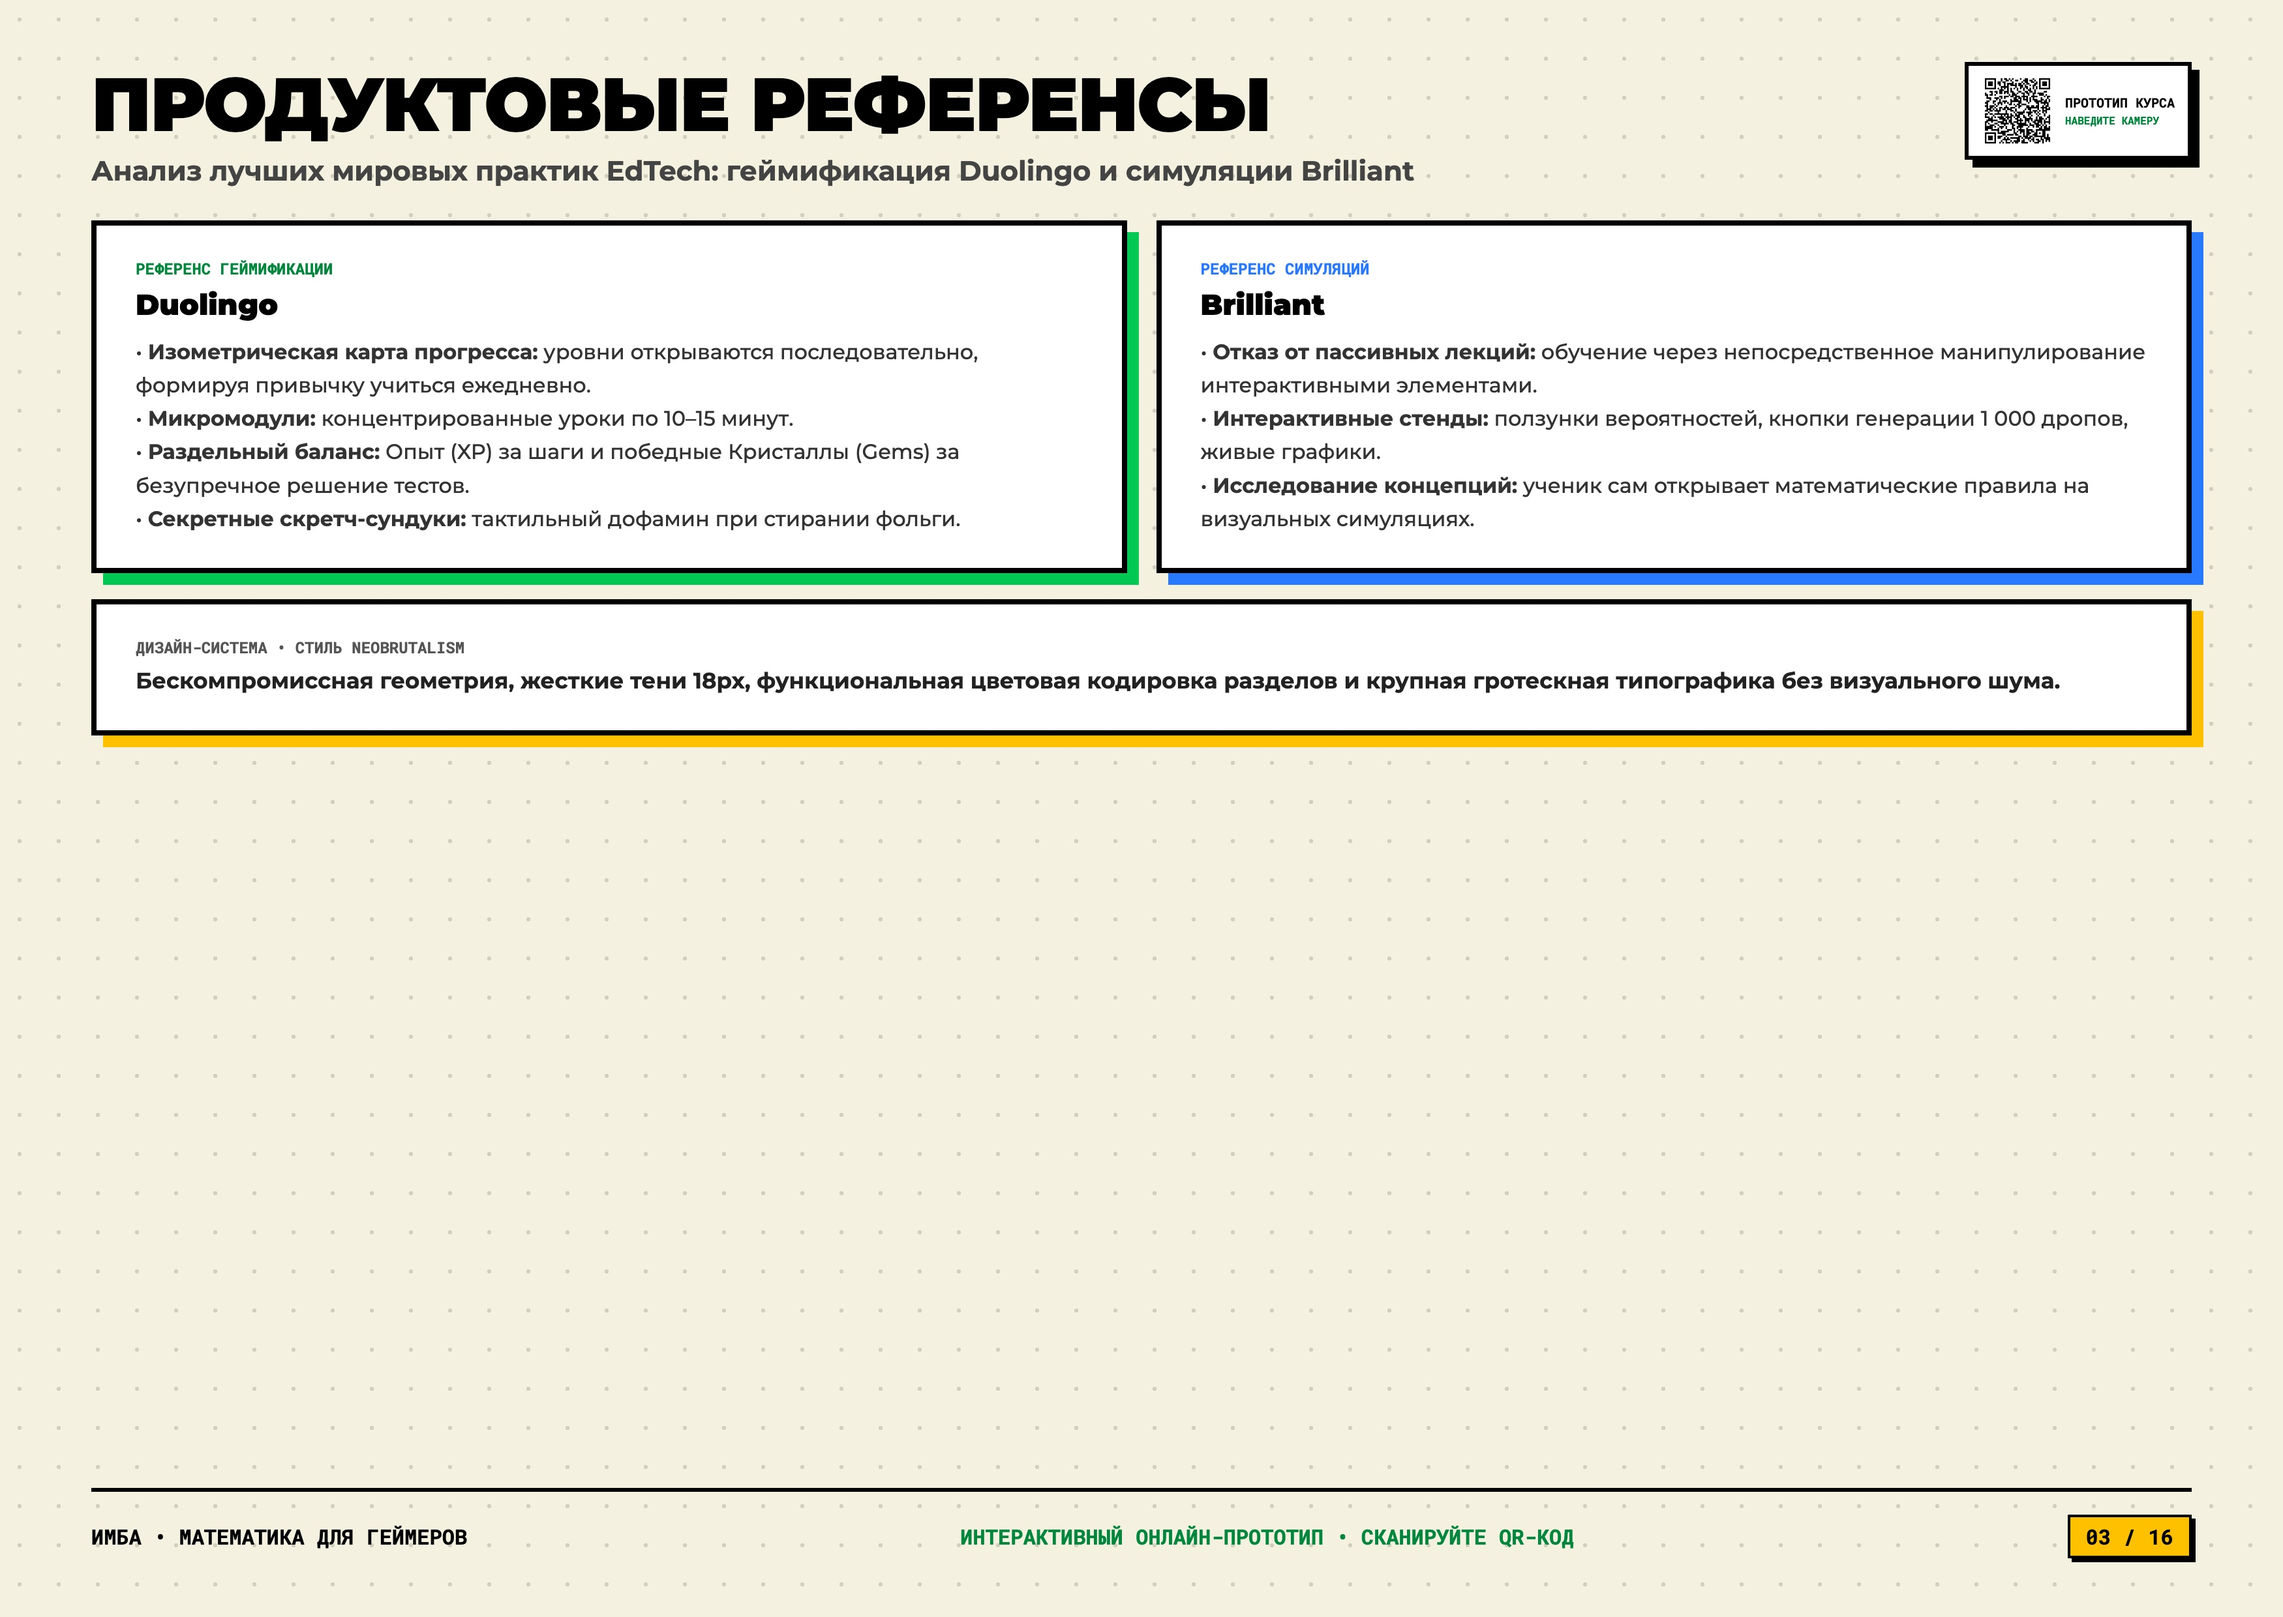
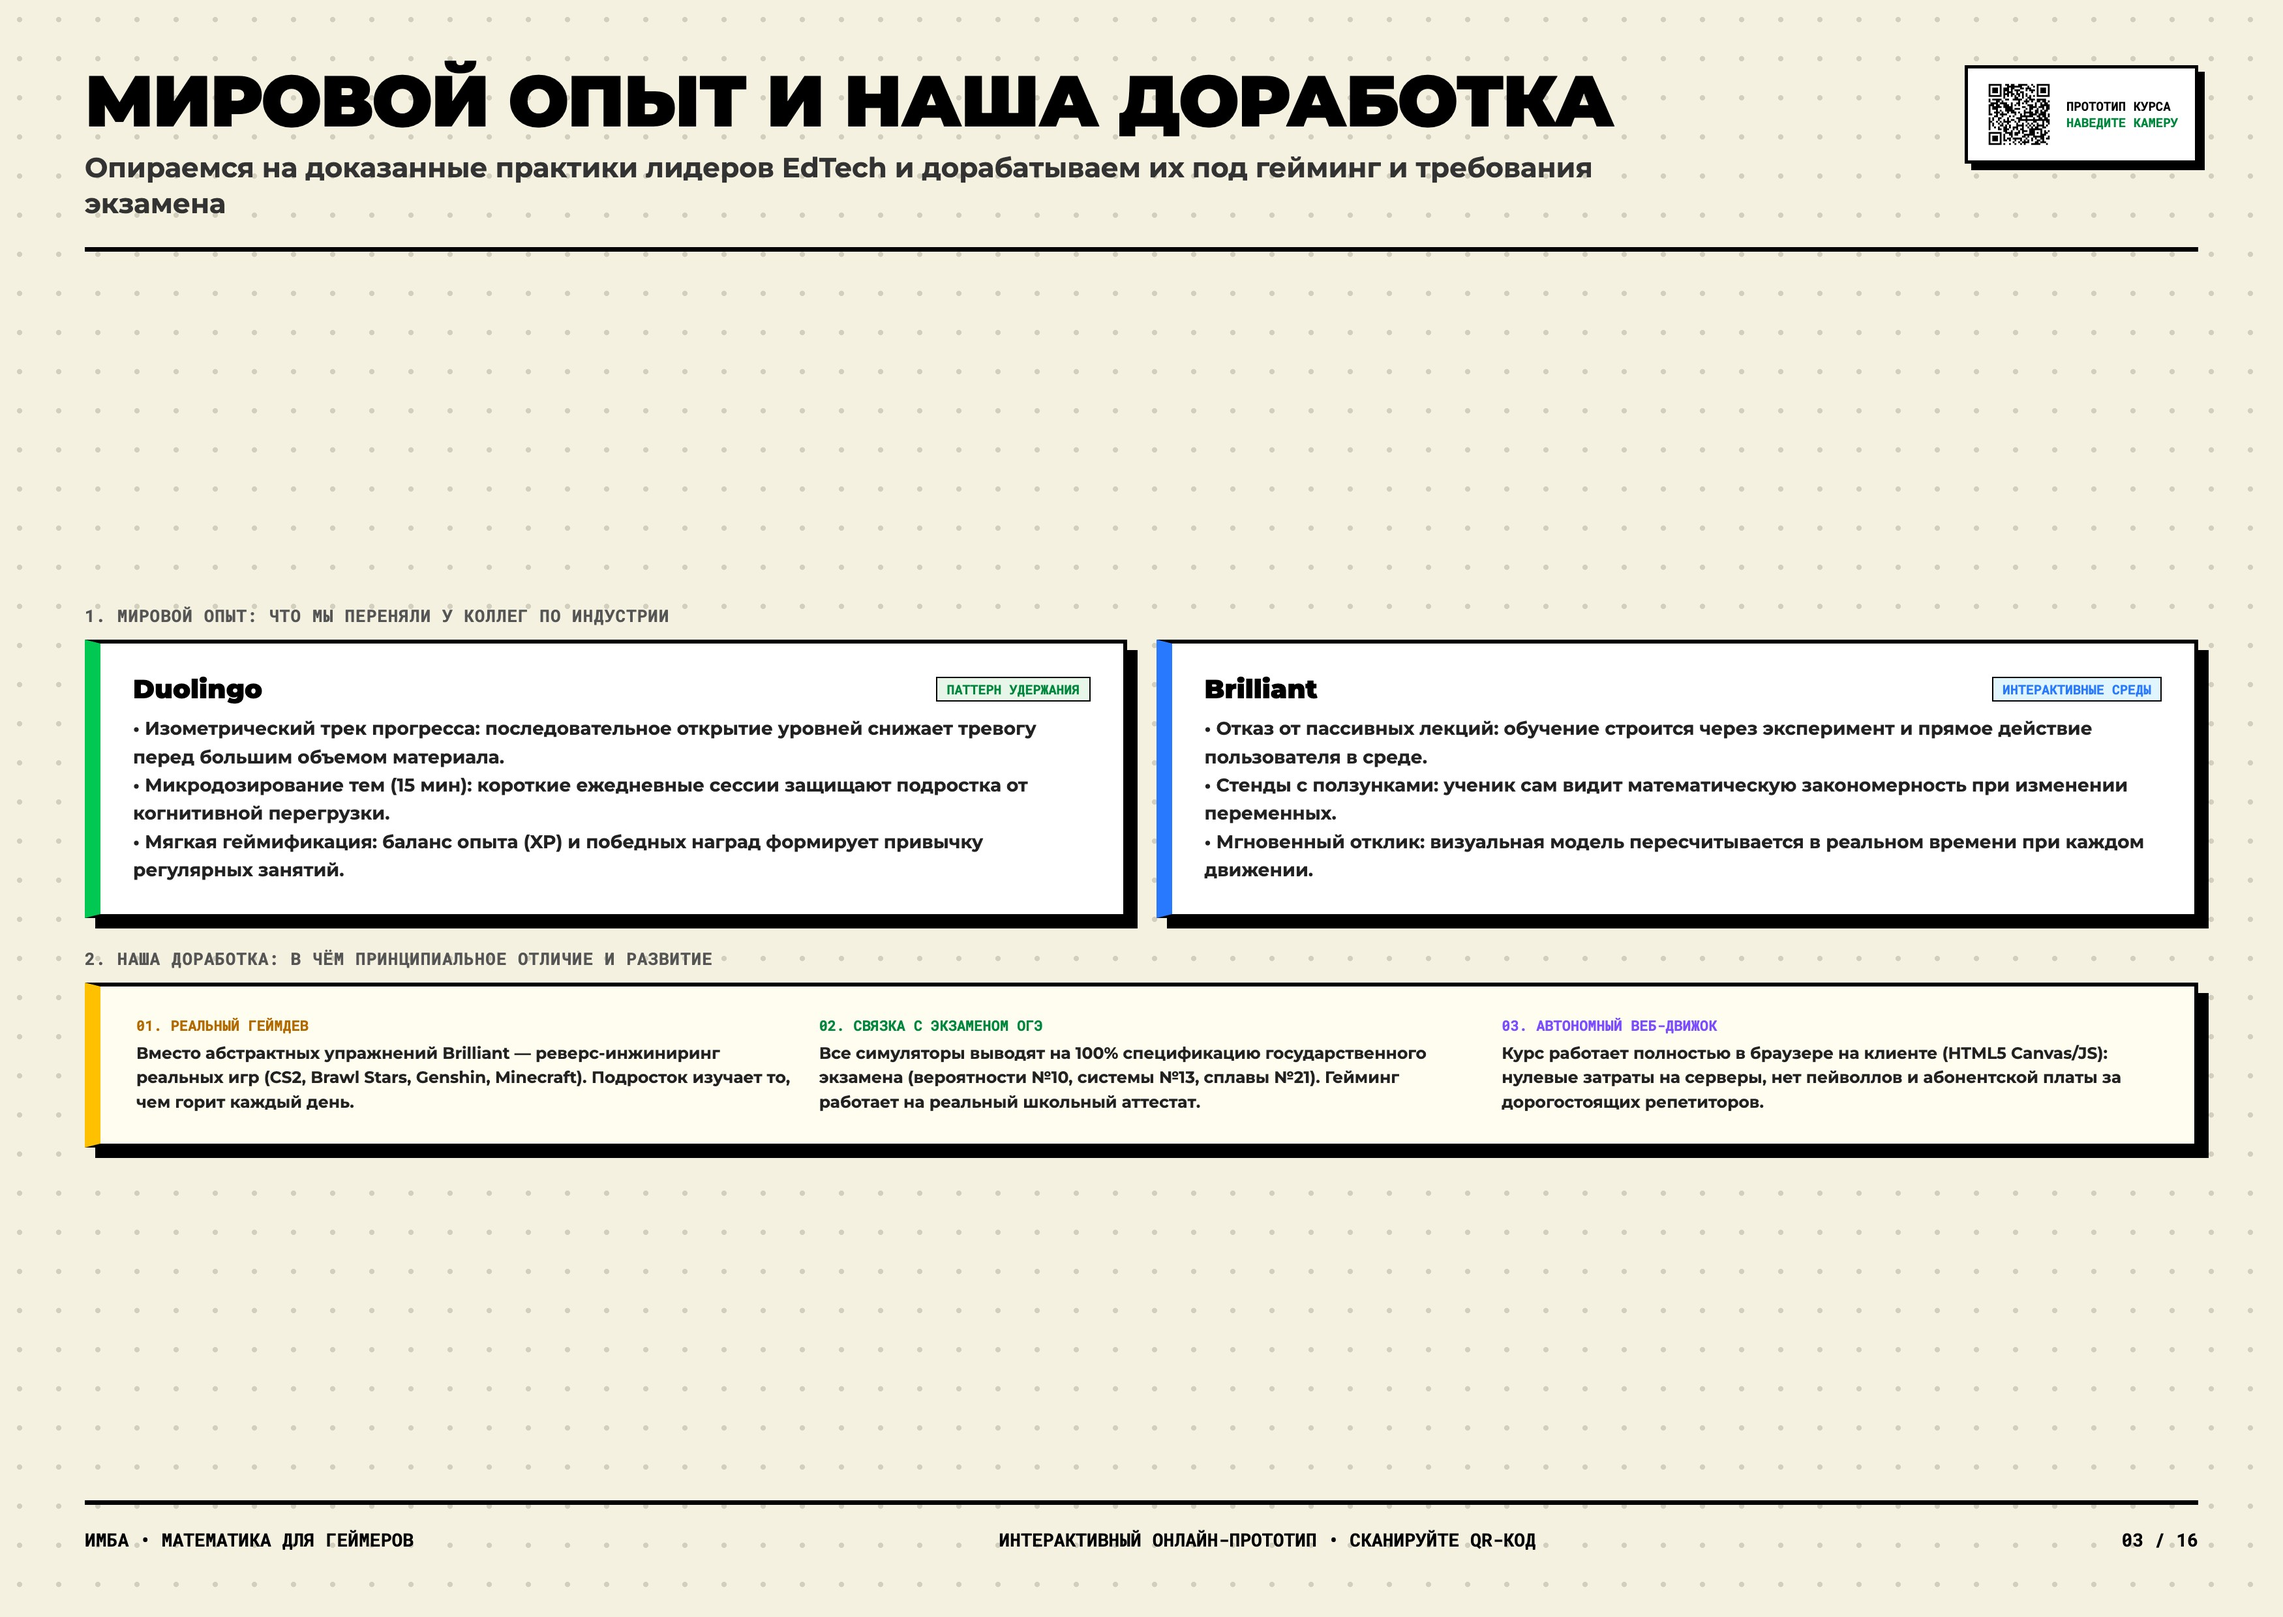
fix: remove references from footers, frame world experience and proprietary dev on dedicated slide

diff --git a/SPEAKER_GUIDE.md b/SPEAKER_GUIDE.md
@@ -57,13 +57,13 @@
 
 ---
 
-### СЛАЙД 03: Продуктовые референсы
-* **Главный тезис:** Анализ лучших мировых практик EdTech: геймификация Duolingo и визуальные симуляции Brilliant.
+### СЛАЙД 03: Мировой опыт и наша доработка
+* **Главный тезис:** Опираемся на доказанные практики лидеров EdTech (Duolingo и Brilliant) и дорабатываем их под гейминг и требования экзамена.
 * **Ключевые тезисы:**
-  * Референс Duolingo: изометрическая карта прогресса, последовательное открытие уровней замками, раздельные валюты XP и Кристаллы.
-  * Референс Brilliant: отказ от пассивных видеолекций — обучение через интерактивные стенды с прямым манипулированием объектами.
-  * Стилистика Neobrutalism: высокий контраст, черные рамки 8px, жесткие тени 18px, функциональная цветовая кодировка разделов без визуального шума.
-* **Что показывать / Артефакт:** Карточки продуктового анализа механик Duolingo и Brilliant.
+  * Мировой опыт (Duolingo и Brilliant): взяли доказанные индустриальные паттерны коллег — пошаговый трек прогресса и 15-минутные микросессии (удержание внимания и защита от перегрузки), интерактивные стенды с ползунками (исследовательское обучение вместо скучных лекций).
+  * Наша доработка (Реальный геймдев): вместо абстрактных примеров — реверс-инжиниринг любимых игр (CS2, Brawl Stars, Genshin), создающий естественную внутреннюю мотивацию («хочу понять, как это устроено»).
+  * Связка с ОГЭ и автономность: все симуляторы калиброваны под государственную спецификацию экзамена (математика для результата в аттестате), а клиентский веб-движок работает без серверов и абонентской платы.
+* **Что показывать / Артефакт:** Инфографика: верхний ярус — индустриальные паттерны лидеров, нижний ярус — три вектора нашей собственной доработки.
 
 ---
 
